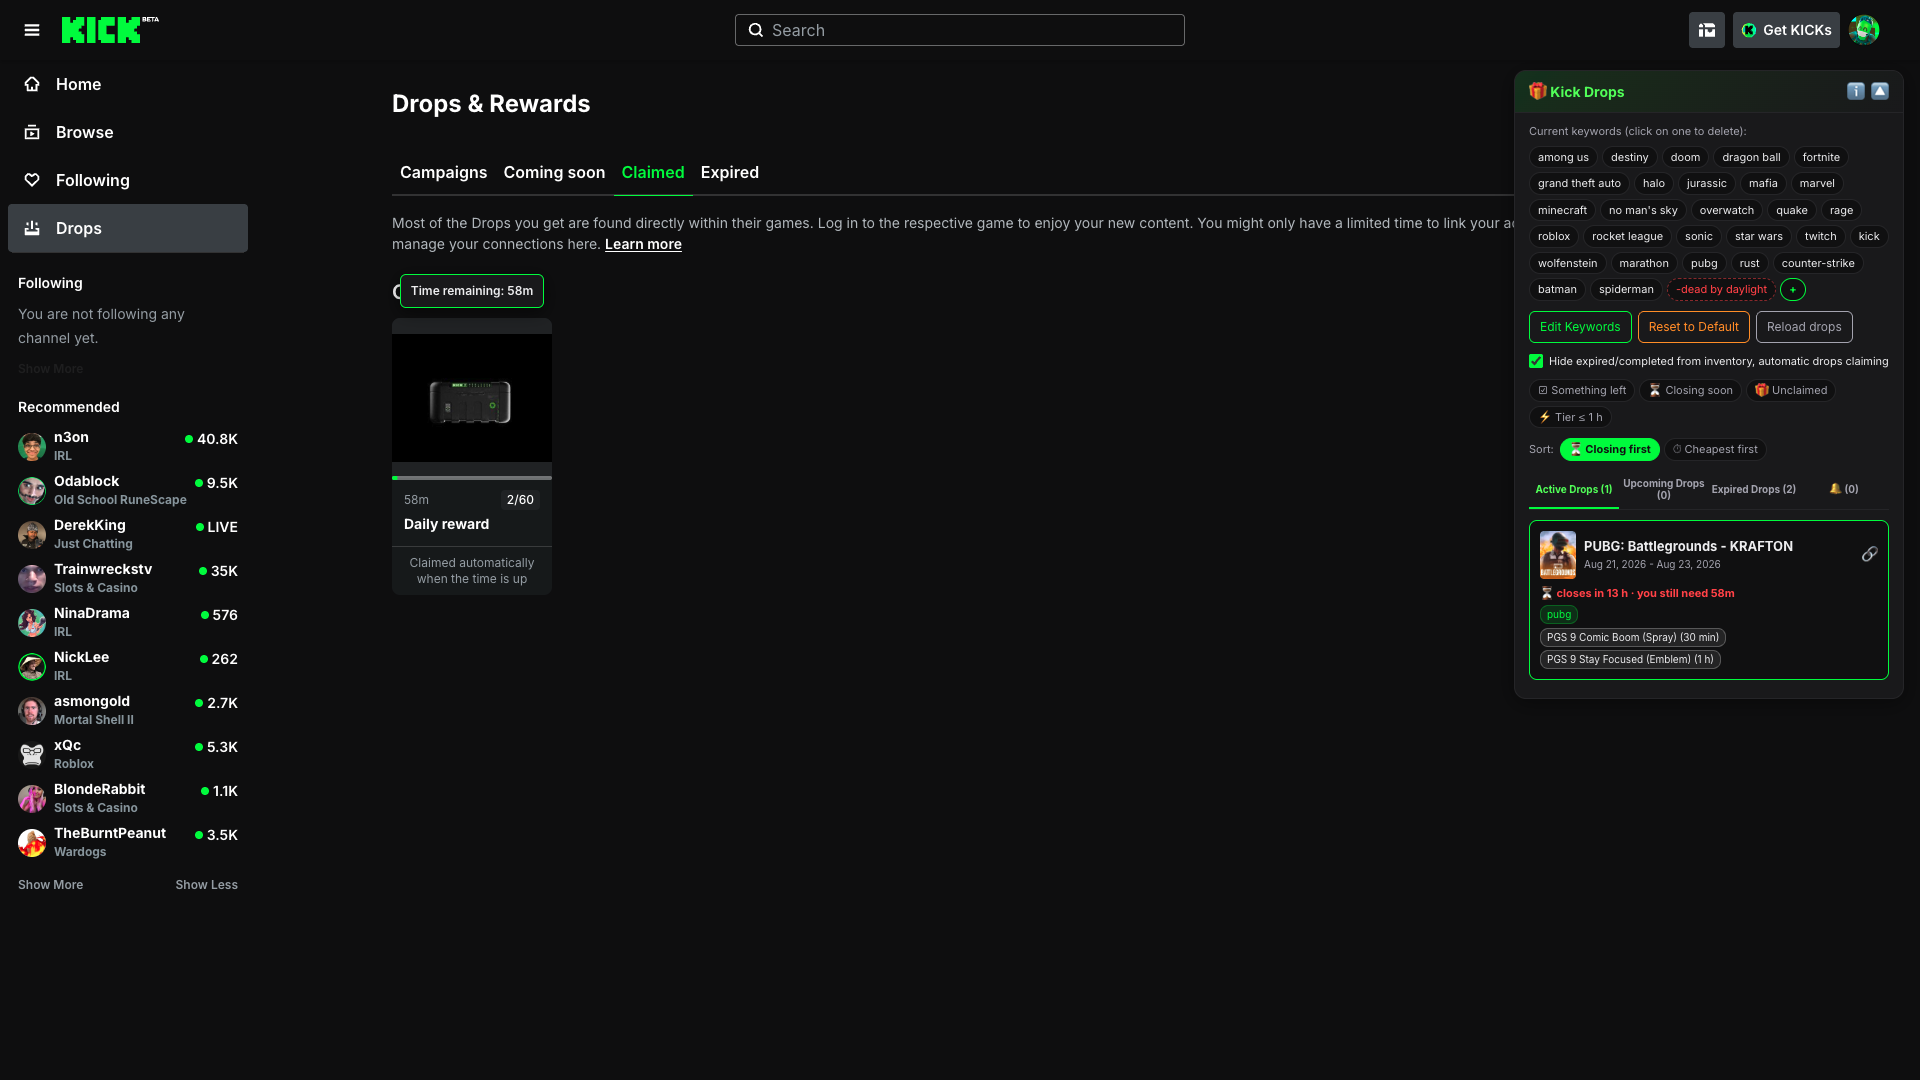
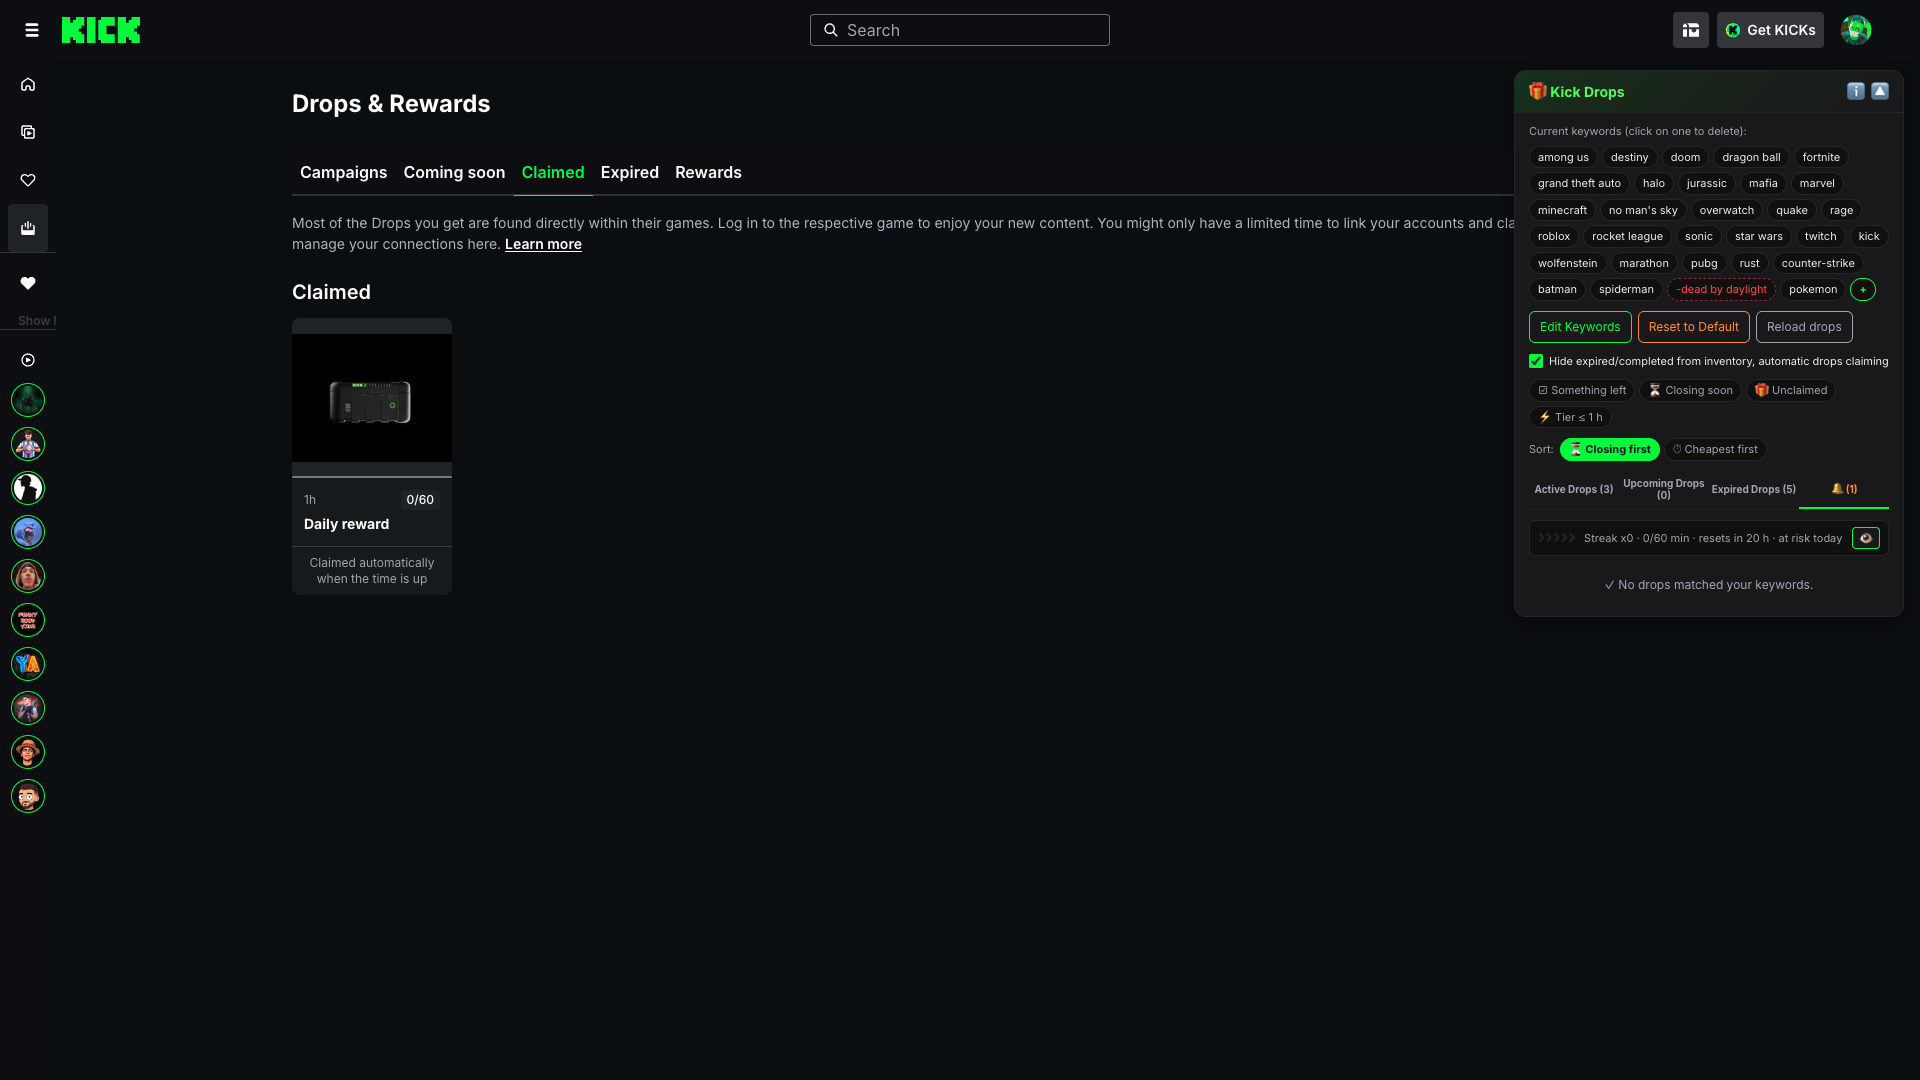
docs(kick-drops-highlighter): capturas del inventario y del cofre al día, con el medidor de racha dentro

diff --git a/README.md b/README.md
@@ -35,25 +35,17 @@ Userscript that classifies and highlights drops/campaigns on Kick based on your 
 
 *Expired: same idea in **red**, so a campaign that closed is obvious rather than something you find out by clicking. The tab keeps its own count, and the filters never touch it — there is nothing left to decide there. Clicking a card takes you to its own title, whether it is the game or one of its sub-campaigns. This one is from the redesigned `/drops`, where closed campaigns finally have a tab of their own: before it, they only existed inside the panel, read from the API. / Cerrados: lo mismo en **rojo**, para que una campaña que ya cerró se vea, en vez de descubrirlo al hacer clic. La pestaña lleva su propia cuenta, y los filtros no la tocan: ahí ya no hay nada que decidir. Al pulsar una tarjeta te lleva a su propio título, sea el del juego o el de una de sus sub-campañas. Esta captura ya es del `/drops` rediseñado, donde las cerradas por fin tienen pestaña propia: antes de ella solo existían dentro del panel, sacadas de la API.*
 
-![The claimed tab with the script's own grid in place of Kick's list, the daily chest tile leading it, and the panel beside it](docs/screenshot-inventory.png)
+![The claimed tab with the script's own grid in place of Kick's list, the daily chest tile leading it at the same size as the drops, and the panel beside it on the 🔔 tab with the streak meter safe](docs/screenshot-inventory.png)
 
-*Claimed: **the script's own grid stands in for Kick's list**. Kick's per-campaign blocks are hidden behind it — that is why there is no *Rust*, no *Kick + Rust Wallpaper Pack* and no *Claimed rewards* heading in the shot even though all of them are still in the page's markup — and so is Kick's own per-game filter row, the *All · Rust · PUBG: Battlegrounds* chips that used to sit above the grid: they filter a list that is no longer the one you are looking at. **Leading the grid is the daily chest**, already claimed today, and it is the only tile that can say *when*: *2 hours ago*, straight from the chest's own claim time. The drops next to it cannot — the space to the left of each *1* is empty because Kick's API returns no claim date, so what is left of that idea is the order, newest first. In the panel, PUBG's two rewards are **both ticked and struck through**, and with that the closing countdown is gone from the card: the warning is about what you still have to get, and there is nothing left to get. / Reclamados: **la rejilla del propio script sustituye a la lista de Kick**. Los bloques por campaña de Kick quedan escondidos detrás —por eso en la captura no hay *Rust*, ni *Kick + Rust Wallpaper Pack*, ni ningún encabezado *Claimed rewards*, aunque los tres siguen en el marcado de la página— y con ellos la fila de filtros por juego de Kick, los chips *All · Rust · PUBG: Battlegrounds* que iban encima: filtran una lista que ya no es la que estás mirando. **Abre la rejilla el cofre diario**, hoy ya reclamado, y es la única baldosa que puede decir *cuándo*: *2 hours ago*, sacado de la hora de reclamo del propio cofre. Los drops de al lado no pueden — el hueco a la izquierda de cada *1* está vacío porque la API de Kick no devuelve fecha de reclamo, así que de esa idea queda el orden, de lo más reciente a lo más antiguo. En el panel, las dos recompensas de PUBG van **con ✓ y tachadas**, y con eso la cuenta atrás de cierre desaparece de la tarjeta: el aviso es sobre lo que te falta por conseguir, y ya no falta nada.*
+*Claimed: **the script's own grid stands in for Kick's list**. Kick's per-campaign blocks are hidden behind it — that is why there is no *Rust*, no *Kick + Rust Wallpaper Pack* and no *Claimed rewards* heading in the shot even though all of them are still in the page's markup — and so is Kick's own per-game filter row, the *All · Rust · PUBG: Battlegrounds* chips that used to sit above the grid: they filter a list that is no longer the one you are looking at. **Leading the grid is the daily chest**, already claimed today, at the same size as the drop tiles and with its card shown whole, and it is the only tile that can say *when*: *1 hour ago*, straight from the chest's own claim time. The drops next to it cannot — the space to the left of each *1* is empty because Kick's API returns no claim date, so what is left of that idea is the order, newest first. **The panel sits on its 🔔 tab, showing the streak meter once the chest is claimed**: green border, all five chevrons filled —*x5*—, no minutes because there is nothing left to watch, and *safe today*. There is no 👁 either, because there is no noise left to silence, and the tab reads 🔔 (0). This is the state the meter exists for, and the reason it is drawn above the «no drops matched» line rather than below it: with the streak safe there is no pending alert, so anything printed under that line would never be seen in the one state that carries good news. / Reclamados: **la rejilla del propio script sustituye a la lista de Kick**. Los bloques por campaña de Kick quedan escondidos detrás —por eso en la captura no hay *Rust*, ni *Kick + Rust Wallpaper Pack*, ni ningún encabezado *Claimed rewards*, aunque los tres siguen en el marcado de la página— y con ellos la fila de filtros por juego de Kick, los chips *All · Rust · PUBG: Battlegrounds* que iban encima: filtran una lista que ya no es la que estás mirando. **Abre la rejilla el cofre diario**, hoy ya reclamado, del mismo tamaño que las baldosas de drop y con su carta entera, y es la única baldosa que puede decir *cuándo*: *1 hour ago*, sacado de la hora de reclamo del propio cofre. Los drops de al lado no pueden — el hueco a la izquierda de cada *1* está vacío porque la API de Kick no devuelve fecha de reclamo, así que de esa idea queda el orden, de lo más reciente a lo más antiguo. **El panel está en su pestaña 🔔, con el medidor de racha ya cobrado el cofre**: borde verde, los cinco galones llenos —*x5*—, sin minutos porque no queda nada que ver, y *safe today*. Tampoco hay 👁, porque ya no hay ruido que callar, y la solapa marca 🔔 (0). Éste es el estado para el que existe el medidor, y el motivo de que se pinte encima de la línea de «no hay coincidencias» y no debajo: con la racha a salvo no hay ninguna alerta pendiente, así que lo que fuera debajo de esa línea no se vería nunca en el único estado que trae buenas noticias.*
 
-![The claimed tab of an account with nothing claimed, showing only the daily chest tile in the script's grid](docs/screenshot-daily-chest.png)
+![The claimed tab of an account with nothing claimed, showing only the daily chest tile in the script's grid, and the panel on the 🔔 tab with the streak meter at risk](docs/screenshot-daily-chest.png)
 
-*The same grid on an account that has claimed **nothing at all**, which is the case Kick has no page for: its claimed tab is an empty-state message and that is all. Here the grid draws anyway, for the one thing there is — the daily chest, mid-count, with the *50m* it still needs, Kick's own *10/60* and the note saying it will be claimed by itself when the time is up. Kick's empty state is hidden behind it, the same way the per-campaign blocks are on a full account. / La misma rejilla en una cuenta que no ha reclamado **nada de nada**, que es el caso para el que Kick no tiene página: su pestaña de reclamados es un mensaje de vacío y ya. Aquí la rejilla se pinta igual, por lo único que hay —el cofre diario, a media cuenta, con los *50m* que le faltan, el *10/60* del propio Kick y la nota de que se reclamará solo al terminar el tiempo—. El estado vacío de Kick queda escondido detrás, igual que los bloques por campaña en una cuenta llena.*
+*The same grid on an account that has claimed **nothing at all**, which is the case Kick has no page for: its claimed tab is an empty-state message and that is all. Here the grid draws anyway, for the one thing there is — the daily chest, right after the rollover, with the *1h* it needs, Kick's own *0/60* and the note saying it will be claimed by itself when the time is up. Kick's empty state is hidden behind it, the same way the per-campaign blocks are on a full account. **And the streak meter with the day still unclaimed**: the five chevrons —Kick's own fixed scale, empty here because the streak is at *x0*—, the *0/60 min* still to watch, when the day resets and *at risk today*. It is not a row like a drop's alert: it says all of that at once, and it **cannot be dismissed** until the streak is actually safe. The 👁 beside it only silences the beep and the count —note the tab reads 🔔 (1)— and leaves the meter exactly where it is. / La misma rejilla en una cuenta que no ha reclamado **nada de nada**, que es el caso para el que Kick no tiene página: su pestaña de reclamados es un mensaje de vacío y ya. Aquí la rejilla se pinta igual, por lo único que hay —el cofre diario, justo tras el relevo, con la *1h* que le falta, el *0/60* del propio Kick y la nota de que se reclamará solo al terminar el tiempo—. El estado vacío de Kick queda escondido detrás, igual que los bloques por campaña en una cuenta llena. **Y el medidor de racha con el día todavía sin cobrar**: los cinco galones —la escala fija del propio Kick, vacíos aquí porque la racha va por *x0*—, los *0/60 min* que quedan por ver, cuándo se reinicia el día y *at risk today*. No es una fila como la de un aviso de drop: dice todo eso a la vez y **no se puede descartar** hasta que la racha esté a salvo de verdad. El 👁 de al lado solo calla el pitido y la cuenta —fíjate en que la solapa marca 🔔 (1)— y deja el medidor donde está.*
 
 <img src="docs/screenshot-chest-progress.png" width="200" alt="The daily chest tile just after the rollover, with Kick's progress bar under the image and the script's tooltip reading Time remaining: 1h">
 
-*The same tile mid-count, close up, right after Kick's daily rollover: the chest image with **Kick's own progress bar** under it —the same markup Kick draws on its drop rows, empty here because the day has just started—, the *1h* it needs, Kick's *0/60*, and the script's tooltip over it reading *Time remaining: 1h*. Hovering says what is left; clicking the tile opens Kick's own daily-reward window without claiming anything. And the tile that was there a minute earlier —the one claimed at noon, with its card and its *2 hours ago*— swapped itself for this one, with no reload. / La misma baldosa a media cuenta, de cerca, justo tras el relevo diario de Kick: la imagen del cofre con **la barra de progreso del propio Kick** debajo —el mismo marcado que Kick dibuja en sus filas de drops, vacía aquí porque el día acaba de empezar—, la *1h* que le falta, el *0/60* de Kick y el aviso del script encima diciendo *Time remaining: 1h*. El ratón dice lo que queda; el clic abre la ventana de recompensa diaria del propio Kick sin reclamar nada. Y la baldosa que había un minuto antes —la cobrada a mediodía, con su carta y su *2 hours ago*— se cambió sola por ésta, sin recargar.*
-
-<img src="docs/screenshot-streak-at-risk.png" width="384" alt="The 🔔 tab showing the streak meter at risk, with the minutes watched and a 👁 to silence it">
-
-*The streak meter on the 🔔 tab, **with the day still unclaimed**: the five chevrons —Kick's own fixed scale, empty here because the streak is at *x0*—, the *0/60 min* still to watch, when the day resets and *at risk today*. It is not a row like a drop's alert any more: it says all of that at once, and it **cannot be dismissed** until the streak is actually safe. The 👁 beside it only silences the beep and the count —note the tab reads 🔔 (1)— and leaves the meter exactly where it is. / El medidor de racha en la pestaña 🔔, **con el día todavía sin cobrar**: los cinco galones —la escala fija del propio Kick, vacíos aquí porque la racha va por *x0*—, los *0/60 min* que quedan por ver, cuándo se reinicia el día y *en riesgo hoy*. Ya no es una fila como la de un aviso de drop: dice todo eso a la vez y **no se puede descartar** hasta que la racha esté a salvo de verdad. El 👁 de al lado solo calla el pitido y la cuenta —fíjate en que la solapa marca 🔔 (1)— y deja el medidor donde está.*
-
-<img src="docs/screenshot-streak-safe.png" width="384" alt="The same meter once the chest is claimed: green border, one chevron filled and no 👁">
-
-*The same meter once the chest is claimed. The border turns green, the first chevron is filled —*x1*, the streak that was at zero in the shot above—, the minutes are gone because there is nothing left to watch, and it says *safe today*. **The 👁 is gone too**: there is no noise left to silence, and the tab is back to 🔔 (0). This is the state the meter exists for, and the reason it is drawn above the «no notifications» line rather than below it: with the streak safe there is no pending alert, so anything printed under that line would never be seen in the one state that carries good news. / El mismo medidor con el cofre ya cobrado. El borde se pone verde, el primer galón se llena —*x1*, la racha que en la captura de arriba estaba a cero—, los minutos desaparecen porque no queda nada que ver, y dice *a salvo hoy*. **El 👁 también se fue**: ya no hay ruido que callar, y la solapa vuelve a 🔔 (0). Éste es el estado para el que existe el medidor, y el motivo de que se pinte encima de la línea de «no hay avisos» y no debajo: con la racha a salvo no hay ninguna alerta pendiente, así que lo que fuera debajo de esa línea no se vería nunca en el único estado que trae buenas noticias.*
+*The same tile mid-count, close up, right after Kick's daily rollover: the chest image with **Kick's own progress bar** under it —the same markup Kick draws on its drop rows, empty here because the day has just started—, the *1h* it needs, Kick's *0/60*, and the script's tooltip over it reading *Time remaining: 1h*. Hovering says what is left; clicking the tile opens Kick's own daily-reward window without claiming anything. And the tile that was there a minute earlier —the one claimed at noon, with its card and its claim time— swapped itself for this one, with no reload. / La misma baldosa a media cuenta, de cerca, justo tras el relevo diario de Kick: la imagen del cofre con **la barra de progreso del propio Kick** debajo —el mismo marcado que Kick dibuja en sus filas de drops, vacía aquí porque el día acaba de empezar—, la *1h* que le falta, el *0/60* de Kick y el aviso del script encima diciendo *Time remaining: 1h*. El ratón dice lo que queda; el clic abre la ventana de recompensa diaria del propio Kick sin reclamar nada. Y la baldosa que había un minuto antes —la cobrada a mediodía, con su carta y su hora de reclamo— se cambió sola por ésta, sin recargar.*
 
 <img src="docs/screenshot-time-remaining.png" width="200" alt="The script's own tooltip reading Time remaining: 32m over a reward tile whose own text says 32 min to unlock">
 
